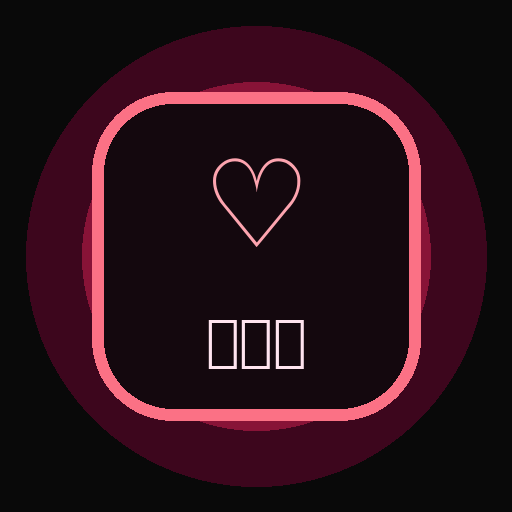
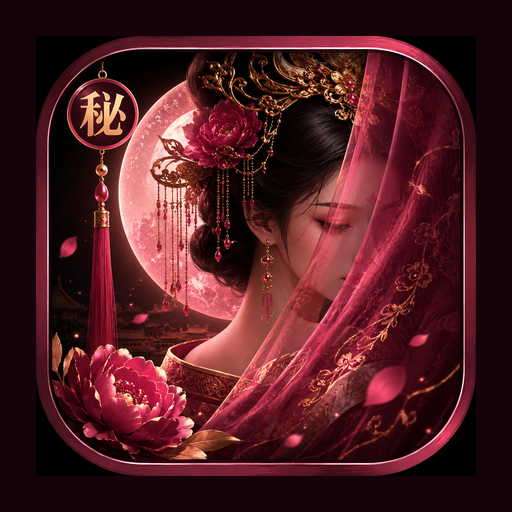
Add files via upload

diff --git a/index.html b/index.html
@@ -4,13 +4,14 @@
   <meta charset="UTF-8" />
   <meta name="viewport" content="width=device-width, initial-scale=1.0, maximum-scale=1.0, user-scalable=no" />
   <title>深宮秘檔・侍寢錄</title>
-  <meta name="theme-color" content="#3d061d" />
+  <meta name="theme-color" content="#16020b" />
   <meta name="apple-mobile-web-app-capable" content="yes" />
-  <meta name="apple-mobile-web-app-title" content="深宮秘檔" />
   <meta name="apple-mobile-web-app-status-bar-style" content="black-translucent" />
+  <meta name="apple-mobile-web-app-title" content="深宮秘檔" />
   <link rel="manifest" href="manifest.json" />
-  <link rel="apple-touch-icon" href="icons/icon-192.png" />
-
+  <link rel="apple-touch-icon" href="icon-192.png" />
+  <link rel="icon" type="image/png" sizes="192x192" href="icon-192.png" />
+  <link rel="icon" type="image/png" sizes="512x512" href="icon-512.png" />
   <style>
     *{box-sizing:border-box;margin:0;padding:0;-webkit-tap-highlight-color:transparent}
     :root{--rose:#fb7185;--pink:#f9a8d4;--bg:#090909;--panel:rgba(0,0,0,.48);--line:rgba(251,113,133,.22)}
@@ -38,7 +39,7 @@
   <header>
     <div class="title-row">
       <div class="brand">
-        <div class="logo">♡</div>
+        <div class="logo"><img src="icon-192.png" alt="" style="width:100%;height:100%;object-fit:cover;border-radius:12px"></div>
         <div class="brand-text">
           <h1>深宮秘檔・侍寢錄</h1>
           <div class="sub">帝王恩澤，盡在掌控</div>
@@ -325,7 +326,6 @@
       handleSwipeEnd();
     });
   </script>
-
   <script>
     if ('serviceWorker' in navigator) {
       window.addEventListener('load', () => {
@@ -333,5 +333,6 @@
       });
     }
   </script>
+
 </body>
 </html>

diff --git a/service-worker.js b/service-worker.js
@@ -1,31 +1,31 @@
-const CACHE_NAME = 'shengong-pwa-v1';
+const CACHE_NAME = 'shengong-shiqin-v1';
 const APP_SHELL = [
   './',
   './index.html',
   './manifest.json',
-  './icons/icon-192.png',
-  './icons/icon-512.png',
-  './icons/icon-maskable-512.png'
+  './icon-192.png',
+  './icon-512.png',
+  './icon-maskable-512.png'
 ];
 
-self.addEventListener('install', (event) => {
-  event.waitUntil(caches.open(CACHE_NAME).then((cache) => cache.addAll(APP_SHELL)));
+self.addEventListener('install', event => {
+  event.waitUntil(caches.open(CACHE_NAME).then(cache => cache.addAll(APP_SHELL)));
   self.skipWaiting();
 });
 
-self.addEventListener('activate', (event) => {
+self.addEventListener('activate', event => {
   event.waitUntil(
-    caches.keys().then((keys) => Promise.all(keys.filter((key) => key !== CACHE_NAME).map((key) => caches.delete(key))))
+    caches.keys().then(keys => Promise.all(keys.map(key => {
+      if (key !== CACHE_NAME) return caches.delete(key);
+    })))
   );
   self.clients.claim();
 });
 
-self.addEventListener('fetch', (event) => {
+self.addEventListener('fetch', event => {
   if (event.request.method !== 'GET') return;
   event.respondWith(
-    caches.match(event.request).then((cached) => cached || fetch(event.request).then((response) => {
-      const copy = response.clone();
-      caches.open(CACHE_NAME).then((cache) => cache.put(event.request, copy));
+    caches.match(event.request).then(cached => cached || fetch(event.request).then(response => {
       return response;
     }).catch(() => caches.match('./index.html')))
   );

diff --git a/README.md b/README.md
@@ -1,13 +1,27 @@
-# 深宮秘檔・侍寢錄 PWA
+# 深宮秘檔・侍寢錄 PWA GitHub Pages 版
 
-## 上傳 GitHub Pages
-1. 建立一個 GitHub repository。
-2. 上傳本資料夾所有檔案：`index.html`、`manifest.json`、`service-worker.js`、`icons/`。
-3. 到 Settings → Pages，選擇 Branch：`main`，資料夾選 `/root`。
-4. 等 GitHub Pages 產生網址後，用手機 Safari / Chrome 打開。
-5. iPhone：分享 → 加入主畫面。Android：瀏覽器選單 → 安裝 App / 加到主畫面。
+## 上傳方式
+
+把本資料夾內所有檔案上傳到 GitHub repository 根目錄：
+
+- index.html
+- manifest.json
+- service-worker.js
+- icon-192.png
+- icon-512.png
+- icon-maskable-512.png
+- README.md
+
+GitHub Pages 開啟後，手機用 Safari / Chrome 打開 GitHub Pages 網址，再加入主畫面。
 
 ## 資料隱私
-本版是手機單機匯入版：沒有伺服器 API、沒有 fetch、沒有 localStorage。匯入的 JSON 只在當次瀏覽器頁面記憶體中使用。重新整理後需要重新匯入。
 
-注意：你把 HTML/PWA 程式上傳到 GitHub Pages，公開的是「程式本身」。你匯入的 21 人 JSON 不會被這個 PWA 自動上傳到 GitHub 或網路，除非你自己把 JSON 檔也上傳到 repository，或把資料貼到程式碼裡。
+本版本為手機單機匯入版：
+
+- 不連動伺服器 API
+- 不自動上傳 JSON 名冊
+- 不使用 localStorage 儲存名冊
+- 匯入資料只存在當次瀏覽器頁面記憶體
+- 重新整理後需要重新匯入
+
+請不要把你的名冊 JSON 上傳到 GitHub repository。
